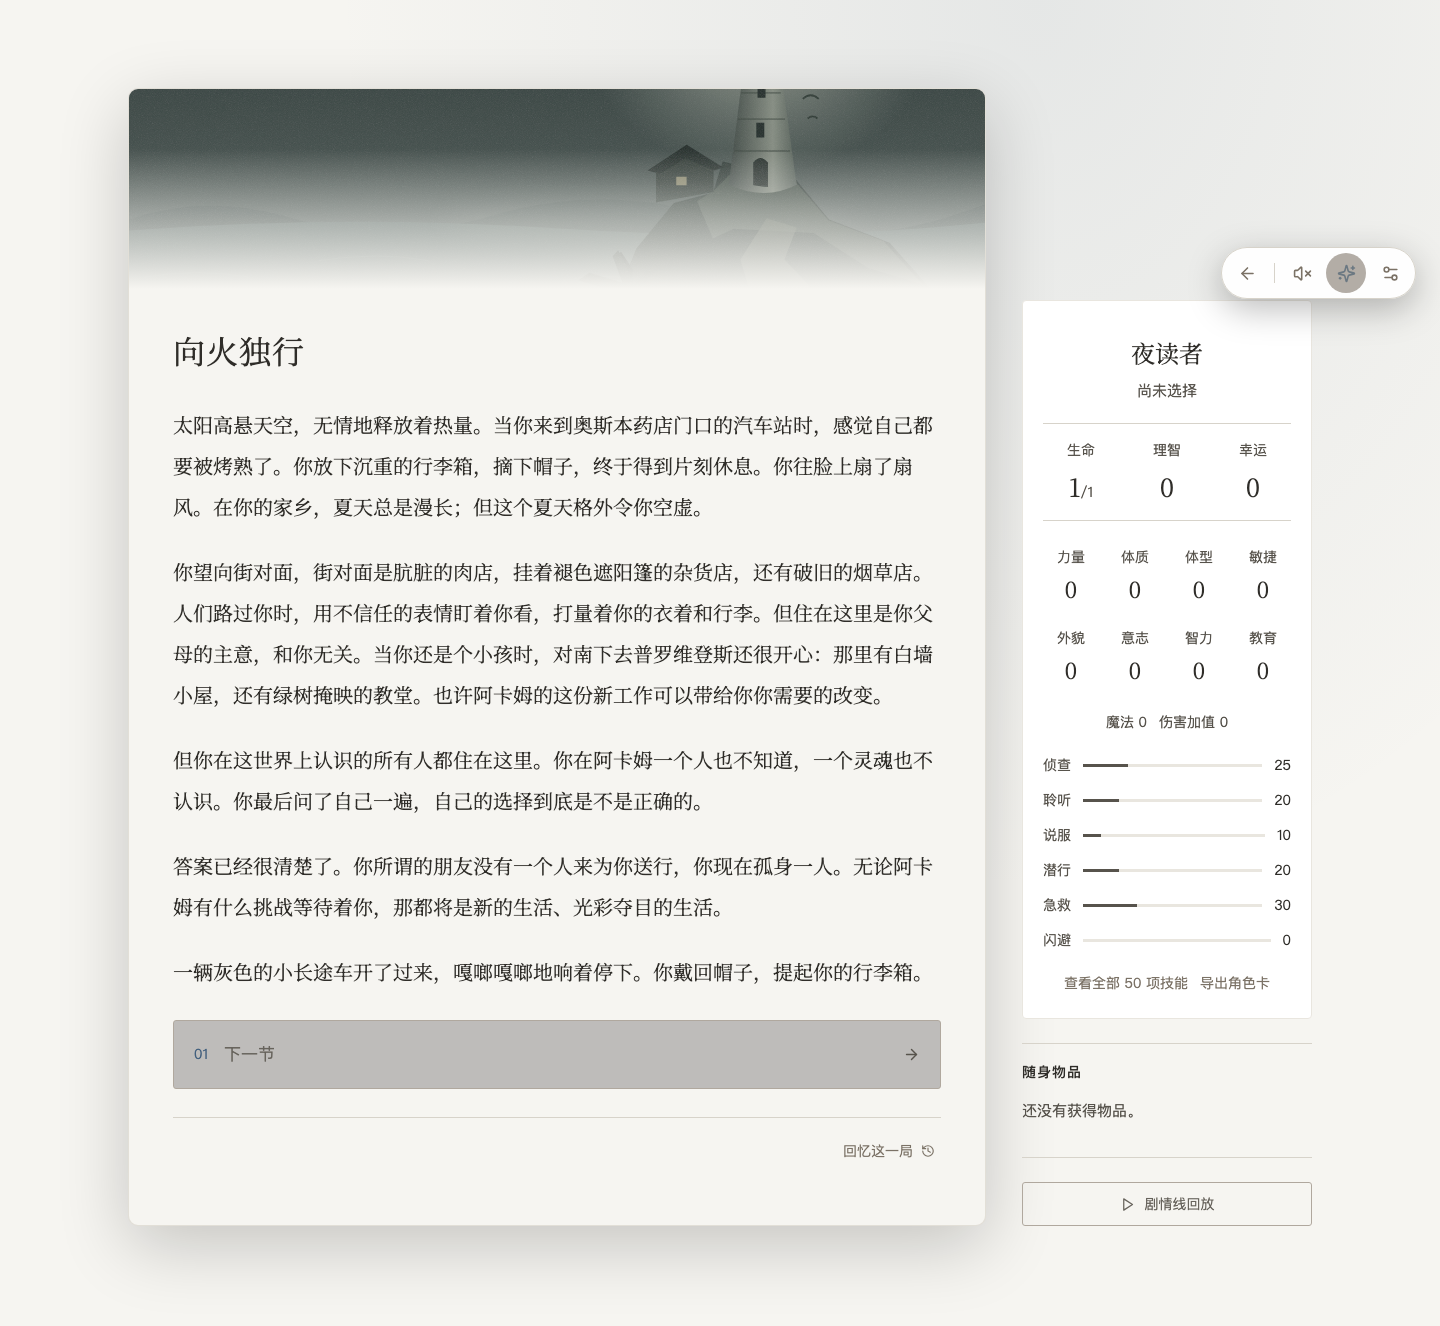
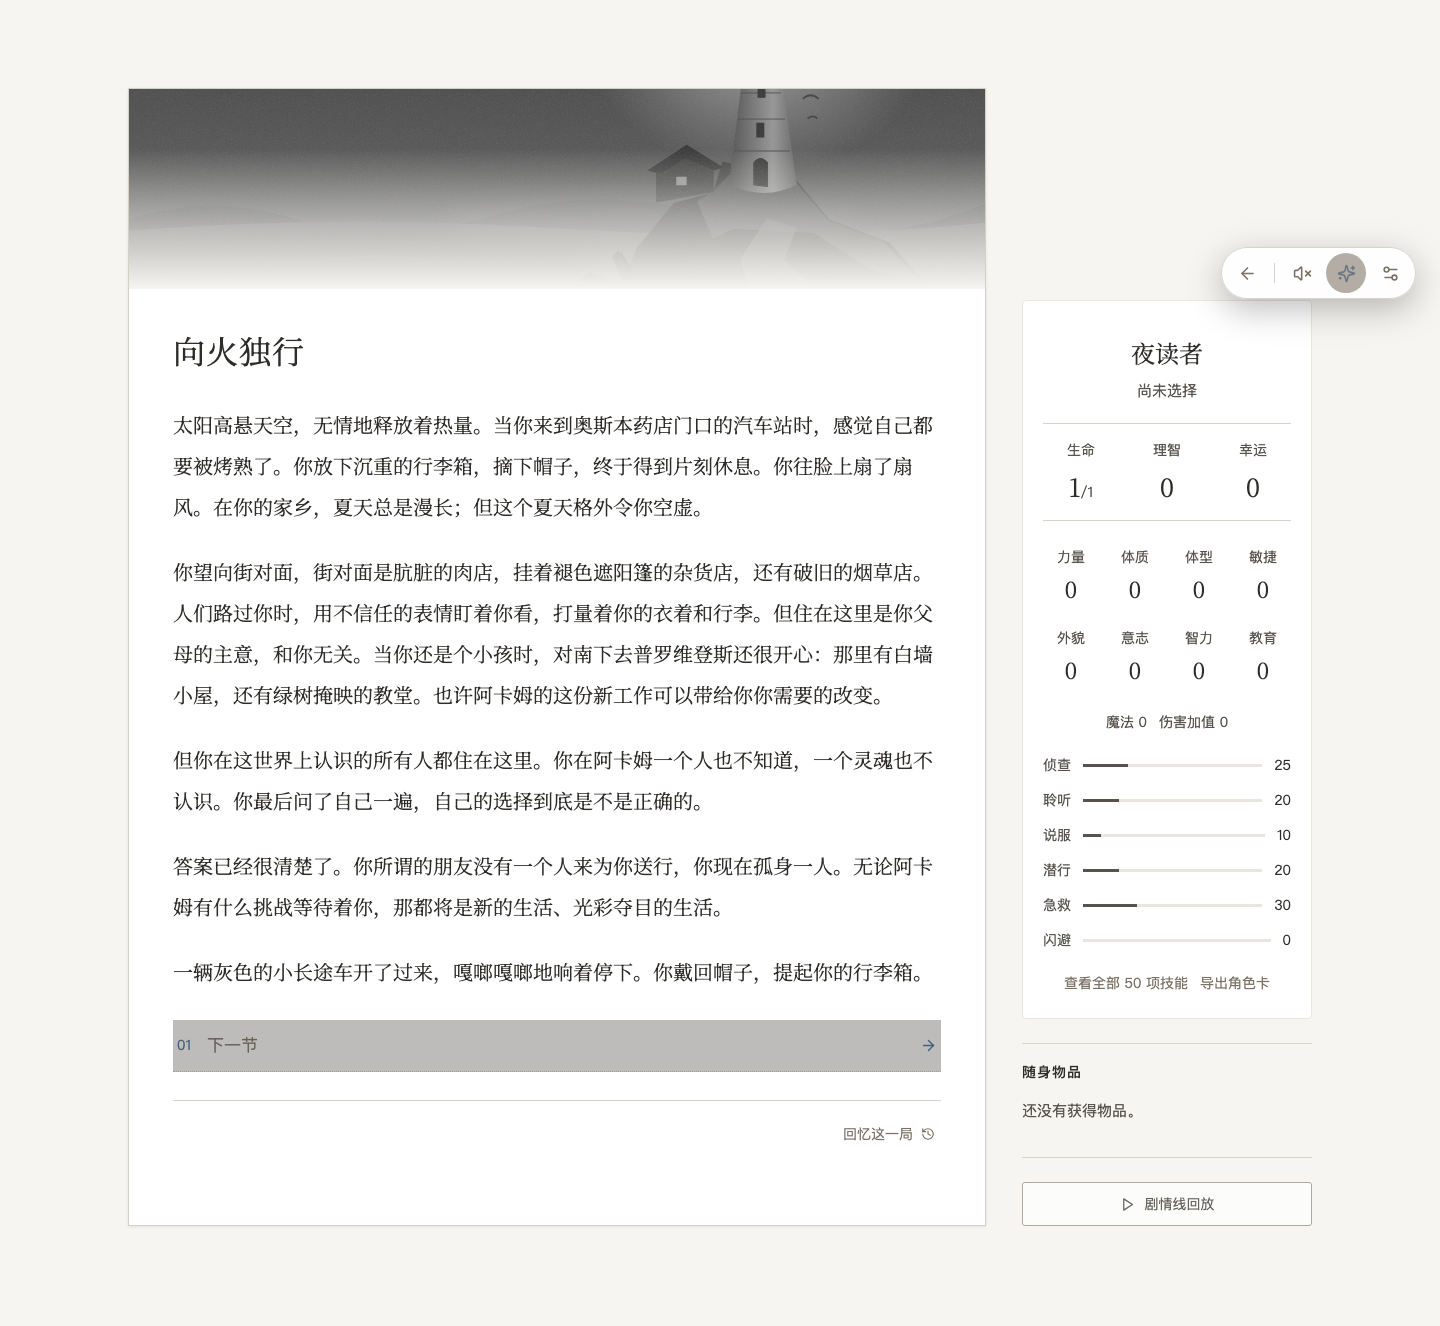
feat: dress the daylight theme as a plain office document

Changed region(s): [[0.125, 0.773, 0.6562, 0.8967], [0.0938, 0.9276, 0.6562, 0.9585], [0.6875, 0.0928, 0.7188, 0.4638]]

diff --git a/apps/web/src/styles.css b/apps/web/src/styles.css
@@ -72,9 +72,82 @@ html[data-theme="daylight"] {
   --muted-bright: #57534c;
   --accent: #43607e;
   --accent-glow: #43607e18;
-  --image-filter: grayscale(0.3) contrast(0.95) saturate(0.8);
+  --image-filter: grayscale(1) contrast(0.9) brightness(1.08);
   --check-success: #2f7d4f;
   --check-failure: #b34a52;
+}
+/*
+ * Office-document disguise: flat gray canvas, white sheet for the story,
+ * hyperlink-style choices, Word-flat buttons and a spreadsheet-like dice tray.
+ * Scoped to the daylight theme; the four dark palettes keep their own look.
+ */
+html[data-theme="daylight"] body {
+  background: var(--bg);
+}
+html[data-theme="daylight"] .is-reading .story-panel {
+  background: #ffffff;
+  border-color: #d4d0c8;
+  border-radius: 0;
+  box-shadow: 0 1px 3px #00000014;
+}
+html[data-theme="daylight"] .is-reading .choices button {
+  background: transparent;
+  border: 0;
+  border-bottom: 1px dotted #c8c4bb;
+  border-radius: 0;
+  padding: 10px 4px;
+}
+html[data-theme="daylight"] .is-reading .choices button:hover {
+  background: #eef4fc;
+  border-color: #c8c4bb;
+  text-decoration: underline;
+}
+html[data-theme="daylight"] .is-reading .choices button > svg {
+  color: var(--accent);
+}
+html[data-theme="daylight"] .primary-button {
+  background: #ffffff;
+  color: var(--text);
+  border: 1px solid #adadad;
+}
+html[data-theme="daylight"] .primary-button:hover {
+  background: #e5f0fb;
+  border-color: #7ca8d8;
+  transform: none;
+}
+html[data-theme="daylight"] .secondary-button {
+  background: #ffffff;
+}
+html[data-theme="daylight"] .secondary-button:hover {
+  background: #e5f0fb;
+}
+html[data-theme="daylight"] .dice-tray {
+  background: #ffffff;
+  border: 1px solid #c9c5bc;
+  border-radius: 4px;
+  box-shadow: none;
+}
+html[data-theme="daylight"] .dice-scene {
+  display: none;
+}
+html[data-theme="daylight"] .dice-scene-note {
+  color: var(--muted);
+}
+html[data-theme="daylight"] .poly-die {
+  background: #ffffff;
+  color: var(--text);
+  border-color: #c9c5bc;
+}
+html[data-theme="daylight"] .poly-die small,
+html[data-theme="daylight"] .dice-percentile-note {
+  color: var(--muted);
+}
+html[data-theme="daylight"] .roll-equation > strong {
+  color: var(--text);
+}
+html[data-theme="daylight"] .dice-number {
+  background: #ffffff;
+  box-shadow: none;
 }
 html[data-theme="daylight"] .custom-skills strong.invalid {
   color: #a3542e;

diff --git a/apps/web/src/main.tsx b/apps/web/src/main.tsx
@@ -19,6 +19,7 @@ import {
 import {
   ReadingSettings,
   initialTheme,
+  readingThemes,
   type ReadingTheme,
   type PageScroll,
 } from "./components/ReadingSettings";
@@ -202,6 +203,12 @@ function App() {
   useEffect(() => {
     document.documentElement.dataset.theme = theme;
     localStorage.setItem("reading-theme", theme);
+    // Match the browser chrome (mobile address bar) to the active palette.
+    const swatch = readingThemes.find((t) => t.id === theme)?.colors[0];
+    if (swatch)
+      document
+        .querySelector('meta[name="theme-color"]')
+        ?.setAttribute("content", swatch);
   }, [theme]);
   useEffect(() => {
     localStorage.setItem("reading-scroll", pageScroll);
